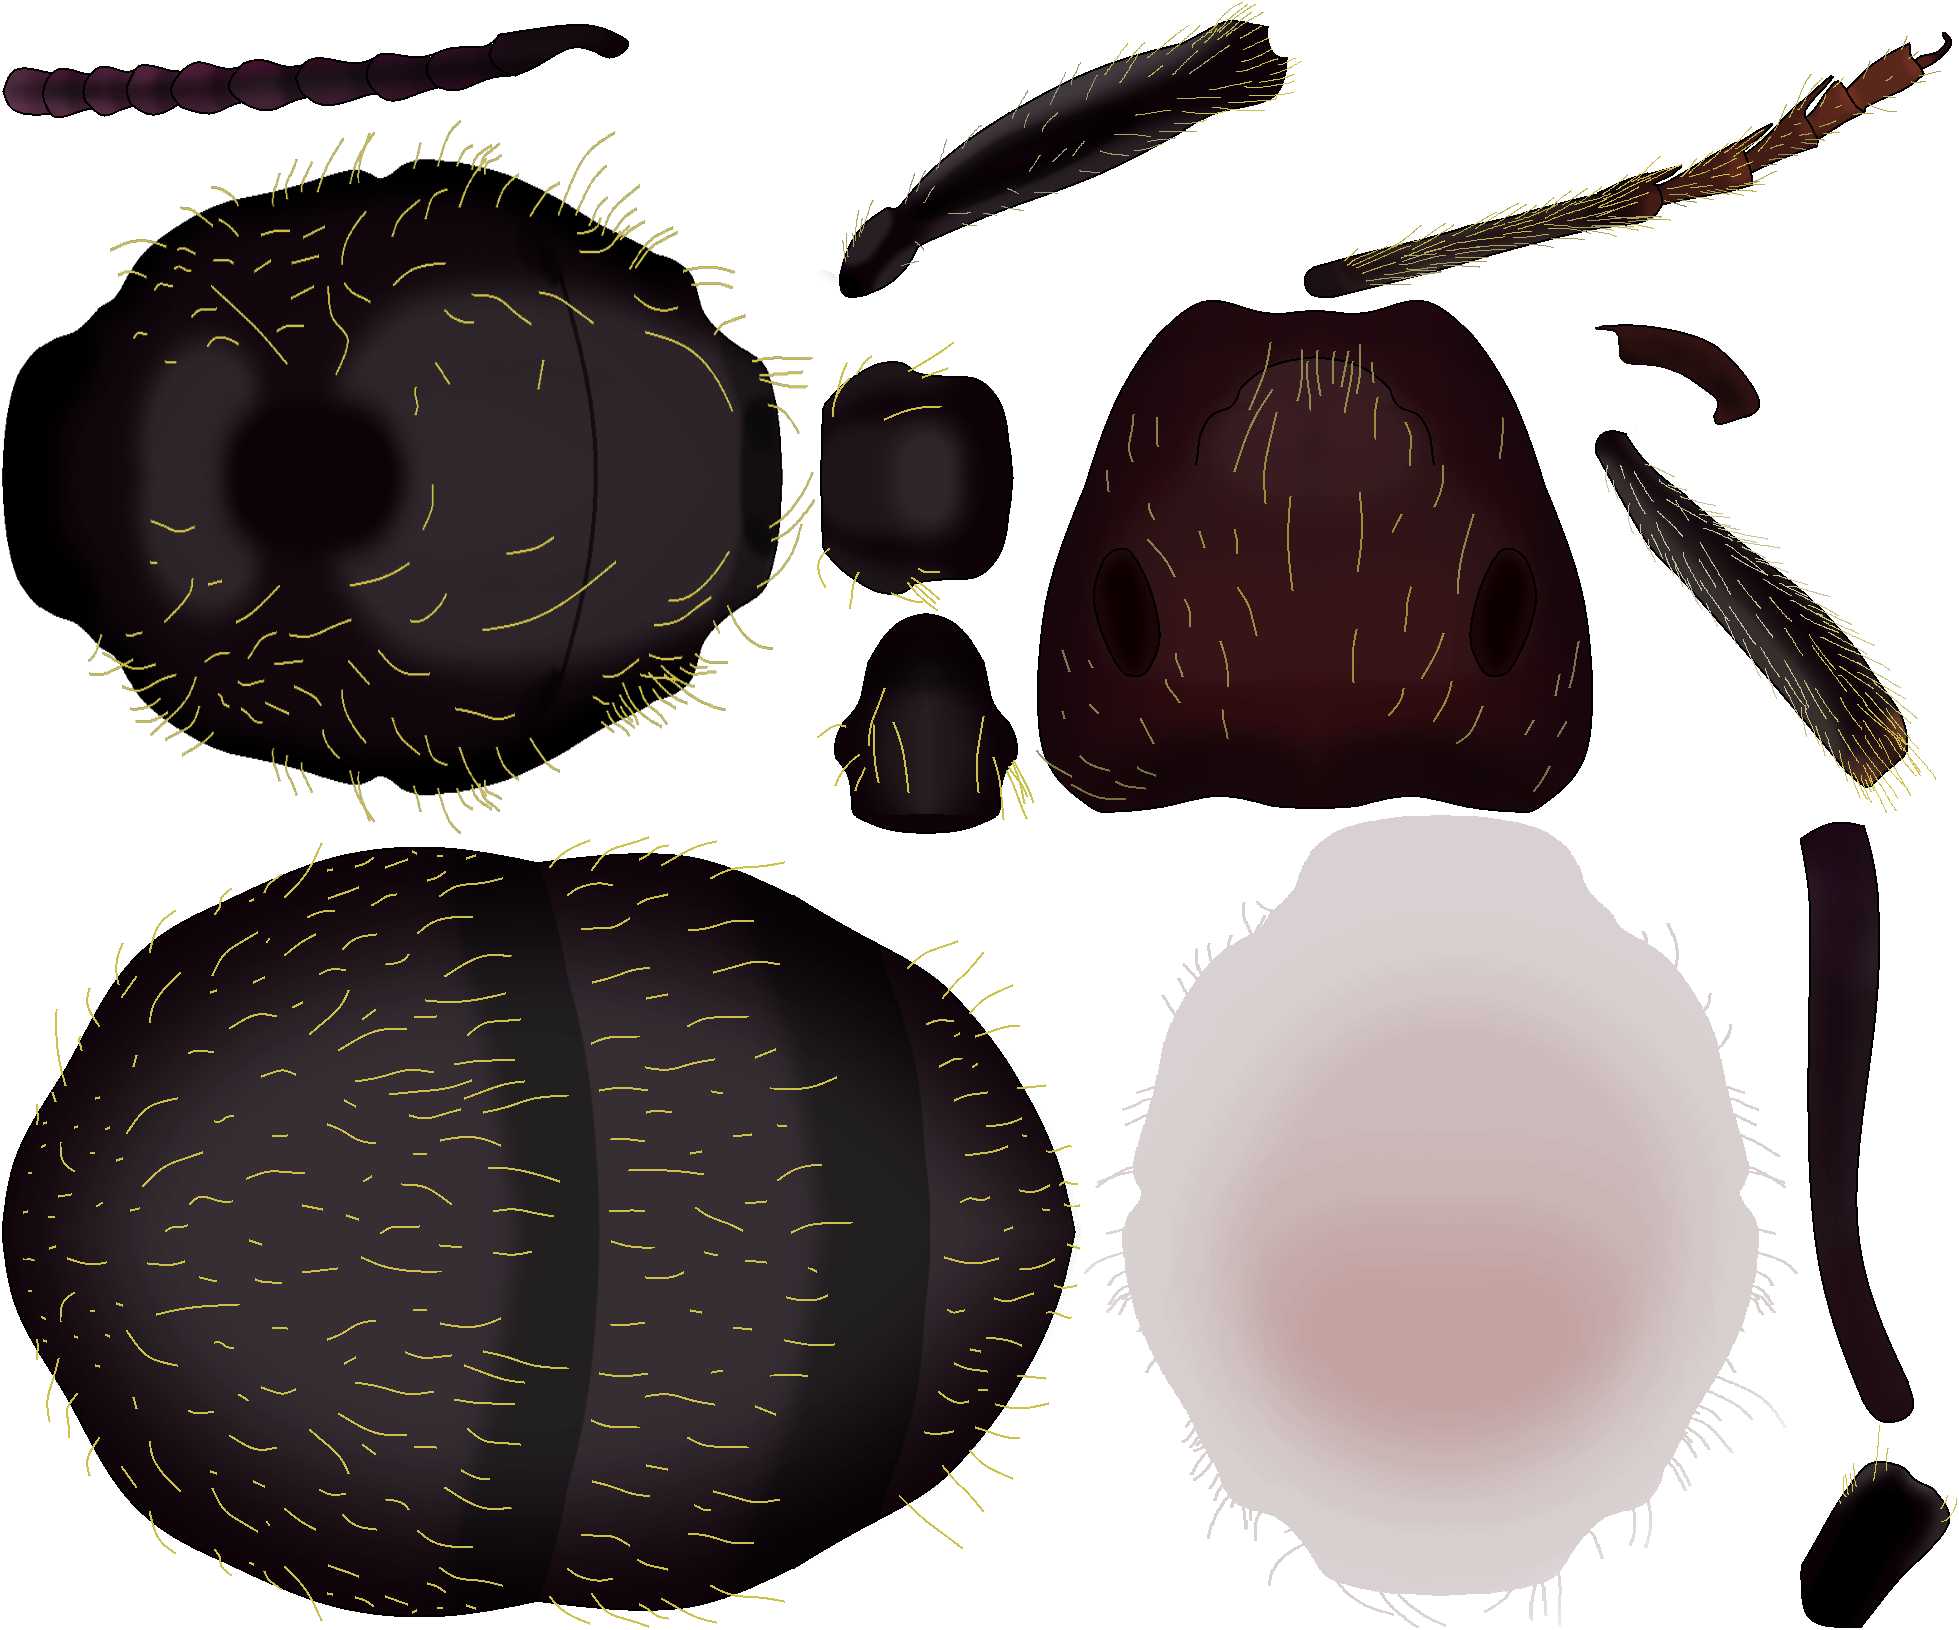
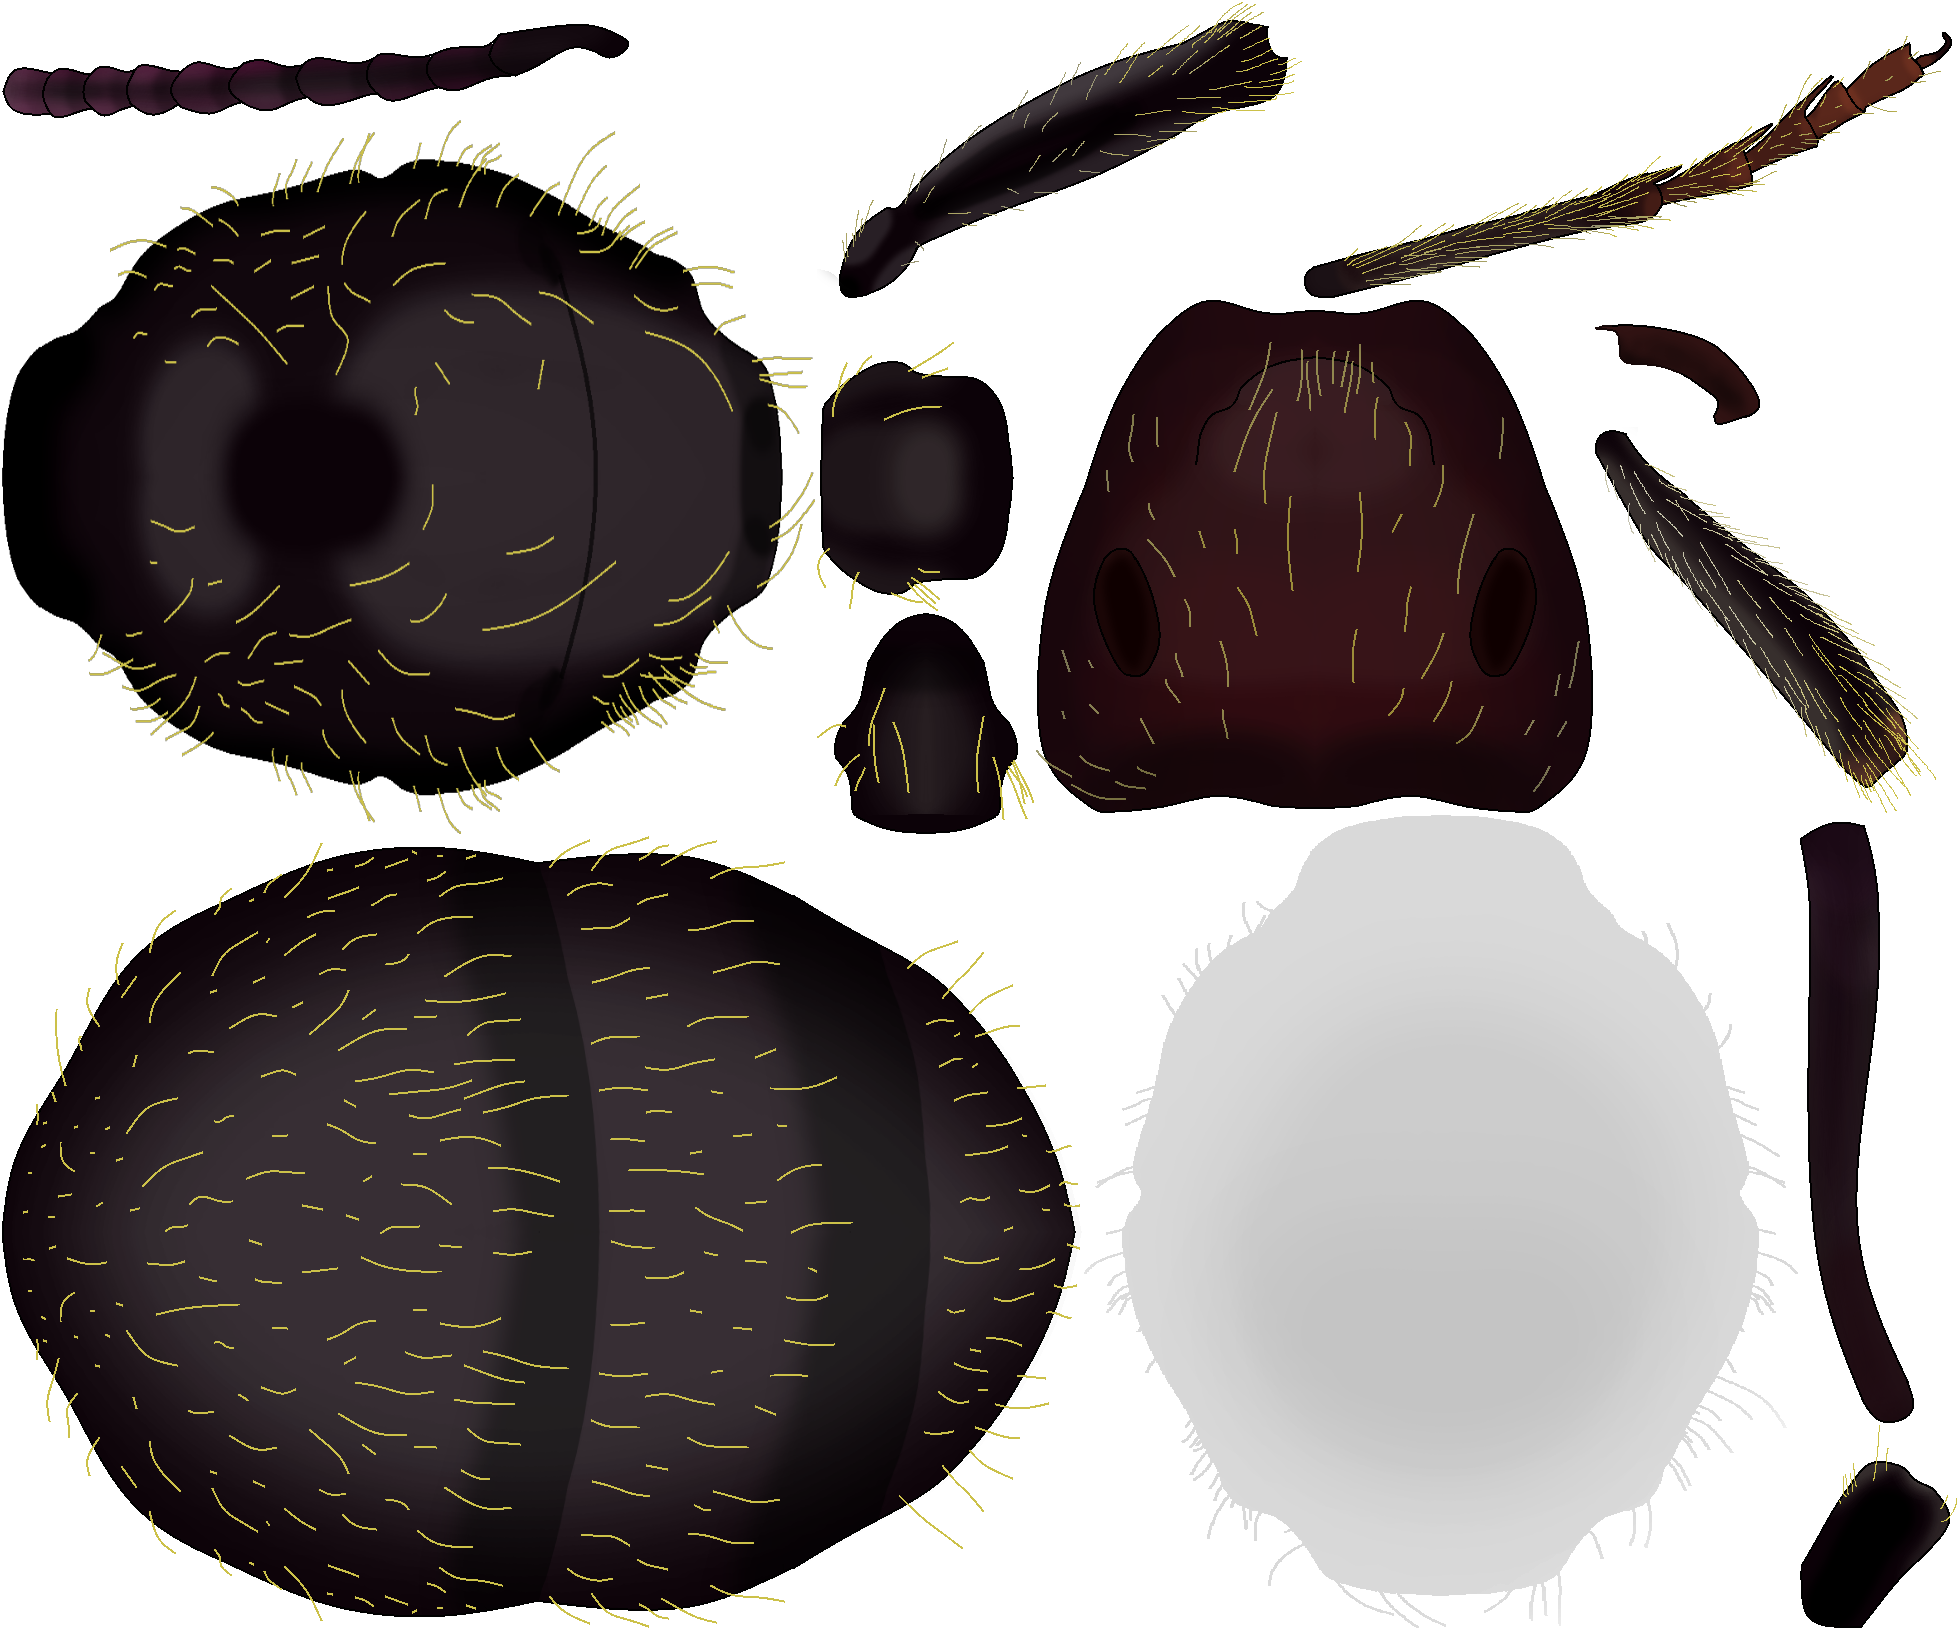
[#87] Ants are colored.

Changed region(s): [[0.6228, 0.7362, 0.8407, 0.8896]]

diff --git a/core/src/main/java/fr/formiko/kokcinelo/model/Ant.java b/core/src/main/java/fr/formiko/kokcinelo/model/Ant.java
@@ -1,6 +1,9 @@
 package fr.formiko.kokcinelo.model;
 
+import com.badlogic.gdx.graphics.Color;
+import com.badlogic.gdx.math.MathUtils;
 import com.badlogic.gdx.math.Vector2;
+import com.esotericsoftware.spine.Slot;
 
 /**
  * {@summary Ants are creatures that figth ladybugs to protect aphids.}
@@ -12,9 +15,11 @@ import com.badlogic.gdx.math.Vector2;
 public class Ant extends Creature {
     // CONSTRUCTORS --------------------------------------------------------------
     /**
-     * {@summary Create new Ants.}
+     * {@summary Create new Ant.}
+     * 
+     * @param thoraxColor color of the thorax.
      */
-    public Ant() {
+    public Ant(Color thoraxColor) {
         super("ant");
         visionRadius = 500;
         hearRadius = 1000;
@@ -24,7 +29,14 @@ public class Ant extends Creature {
         movingSpeed = 4.5f;
         maxLifePoints = 0;
         hitFrequency = 1000;
+
+        Slot colorSlot = getActor().getSkeleton().findSlot("thorax color");
+        colorSlot.getColor().set(thoraxColor);
     }
+    /***
+     * {@summary Create new red Ant.}
+     */
+    public Ant() { this(new Color(MathUtils.random(0.8f, 1), MathUtils.random(0f, 0.2f), MathUtils.random(0f, 0.2f), 1)); }
 
     // GET SET -------------------------------------------------------------------
     @Override

diff --git a/core/src/main/java/fr/formiko/kokcinelo/model/GreenAnt.java b/core/src/main/java/fr/formiko/kokcinelo/model/GreenAnt.java
@@ -1,5 +1,8 @@
 package fr.formiko.kokcinelo.model;
 
+import com.badlogic.gdx.graphics.Color;
+import com.badlogic.gdx.math.MathUtils;
+
 /**
  * {@summary Ants are creatures that figth ladybugs to protect aphids.}
  * This type of Ant use acid to kill ladybugs.
@@ -13,7 +16,7 @@ public class GreenAnt extends Ant {
      * {@summary Create new Ants.}
      */
     public GreenAnt() {
-        super();
+        super(new Color(MathUtils.random(0f, 0.2f), MathUtils.random(0.8f, 1), MathUtils.random(0f, 0.2f), 1));
         hitPoints = 0;
         shootPoints = 25;
         shootFrequency = 2000;
